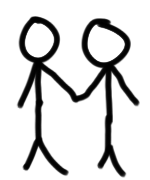
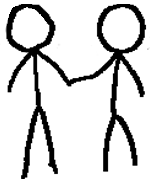
changed sprites, added tutorial and title graphics

diff --git a/src/scenes/Title.js b/src/scenes/Title.js
@@ -5,10 +5,13 @@ class Title extends Phaser.Scene {
 
 
     create() {
+        /*
         this.title = this.add.text(10,10, "Title screen")
         this.guide0 = this.add.text(10,30, "Press (left) to go to the tutorial")
         this.guide1 = this.add.text(10,50, "Press (right) to go to the credits")
         this.guide1 = this.add.text(10,70, "Press (up) to go to the play scene")
+        */
+        this.escalator = this.add.tileSprite(0, 0, 640, 960, 'title').setOrigin(0, 0)
 
 
         keyLEFT = this.input.keyboard.addKey(Phaser.Input.Keyboard.KeyCodes.LEFT)

diff --git a/src/scenes/Tutorial.js b/src/scenes/Tutorial.js
@@ -4,10 +4,13 @@ class Tutorial extends Phaser.Scene {
     }
 
     create() {
+        /*
         this.title = this.add.text(10,10, "Tutorial screen")
         this.guide = this.add.text (10,30, "Press (UP) to go back to title")
-
+        */
         keyUP = this.input.keyboard.addKey(Phaser.Input.Keyboard.KeyCodes.UP)
+
+        this.tutorial = this.add.tileSprite(0, 0, 640, 960, 'tutorial').setOrigin(0, 0)
         
     }
 

diff --git a/src/scenes/Load.js b/src/scenes/Load.js
@@ -35,6 +35,9 @@ class Load extends Phaser.Scene {
         this.load.image('bottom', 'bottom.png')
         this.load.image('gameover-graphic', 'gameover.png')
 
+        this.load.image('tutorial', 'tutorial.png')
+        this.load.image('title', 'title.png')
+
         //load music
         this.load.path = './assets/music/'
         this.load.audio('music-cat', 'Hep Cats.mp3')
